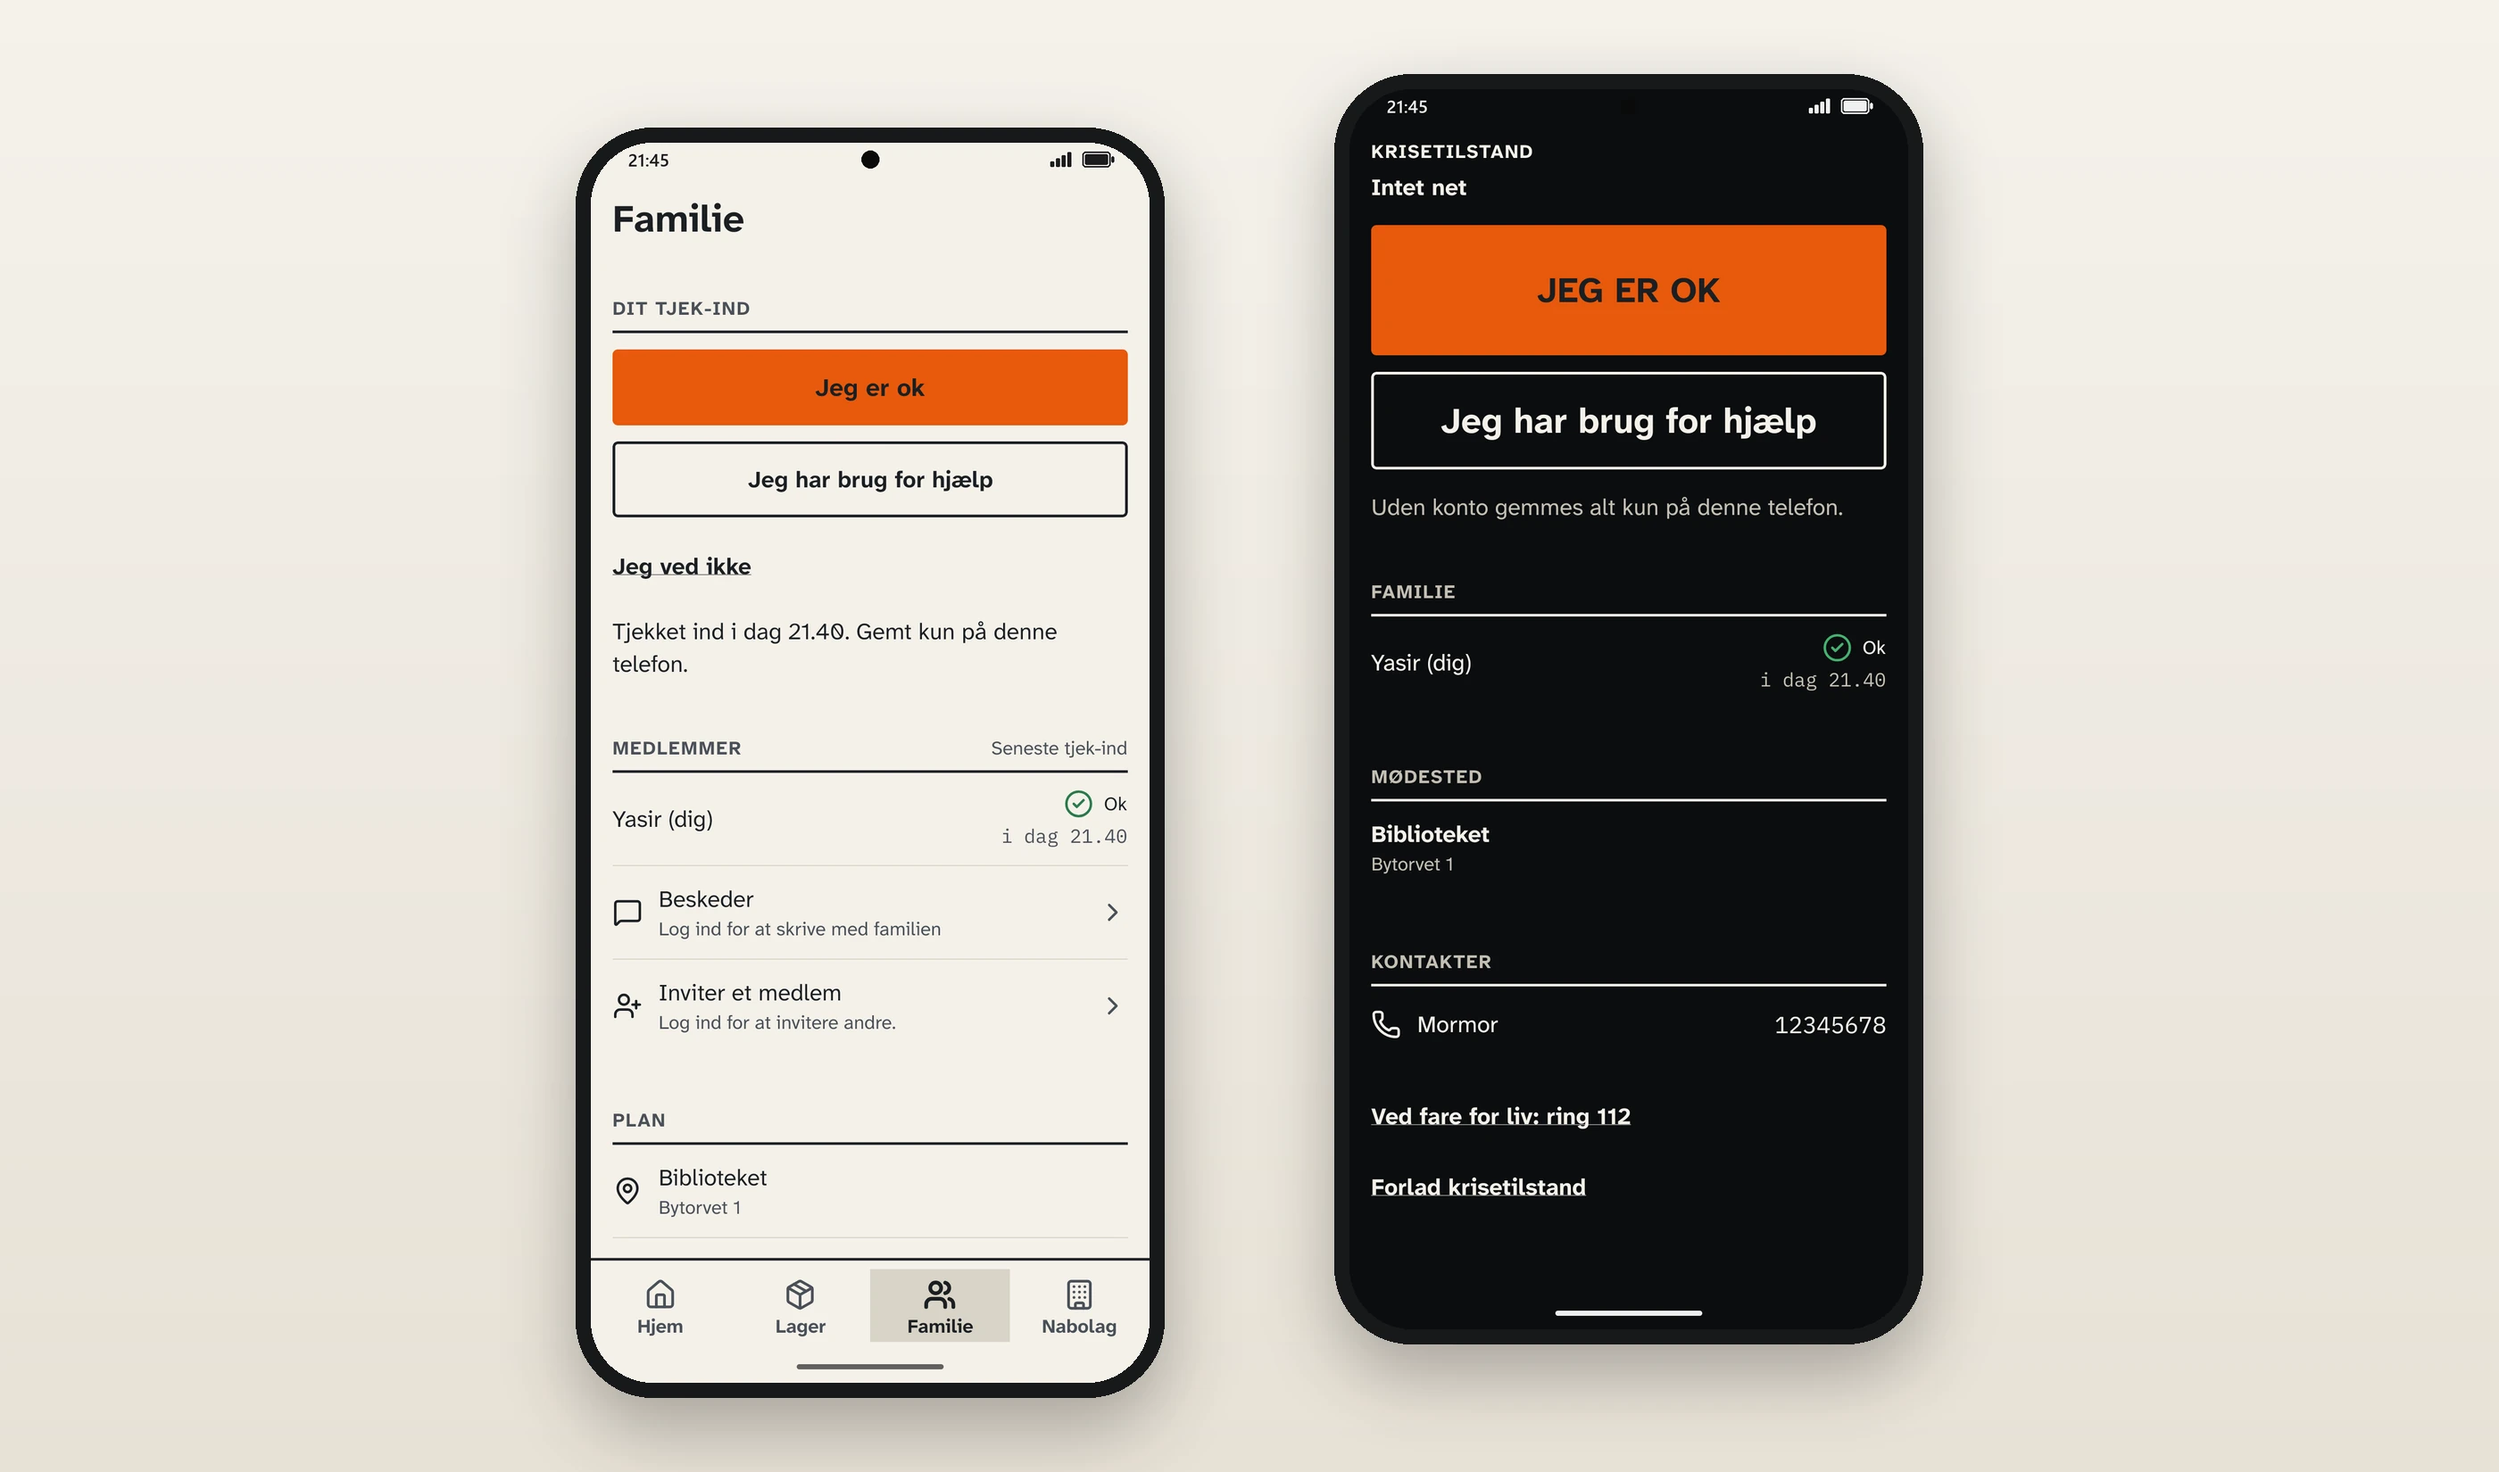
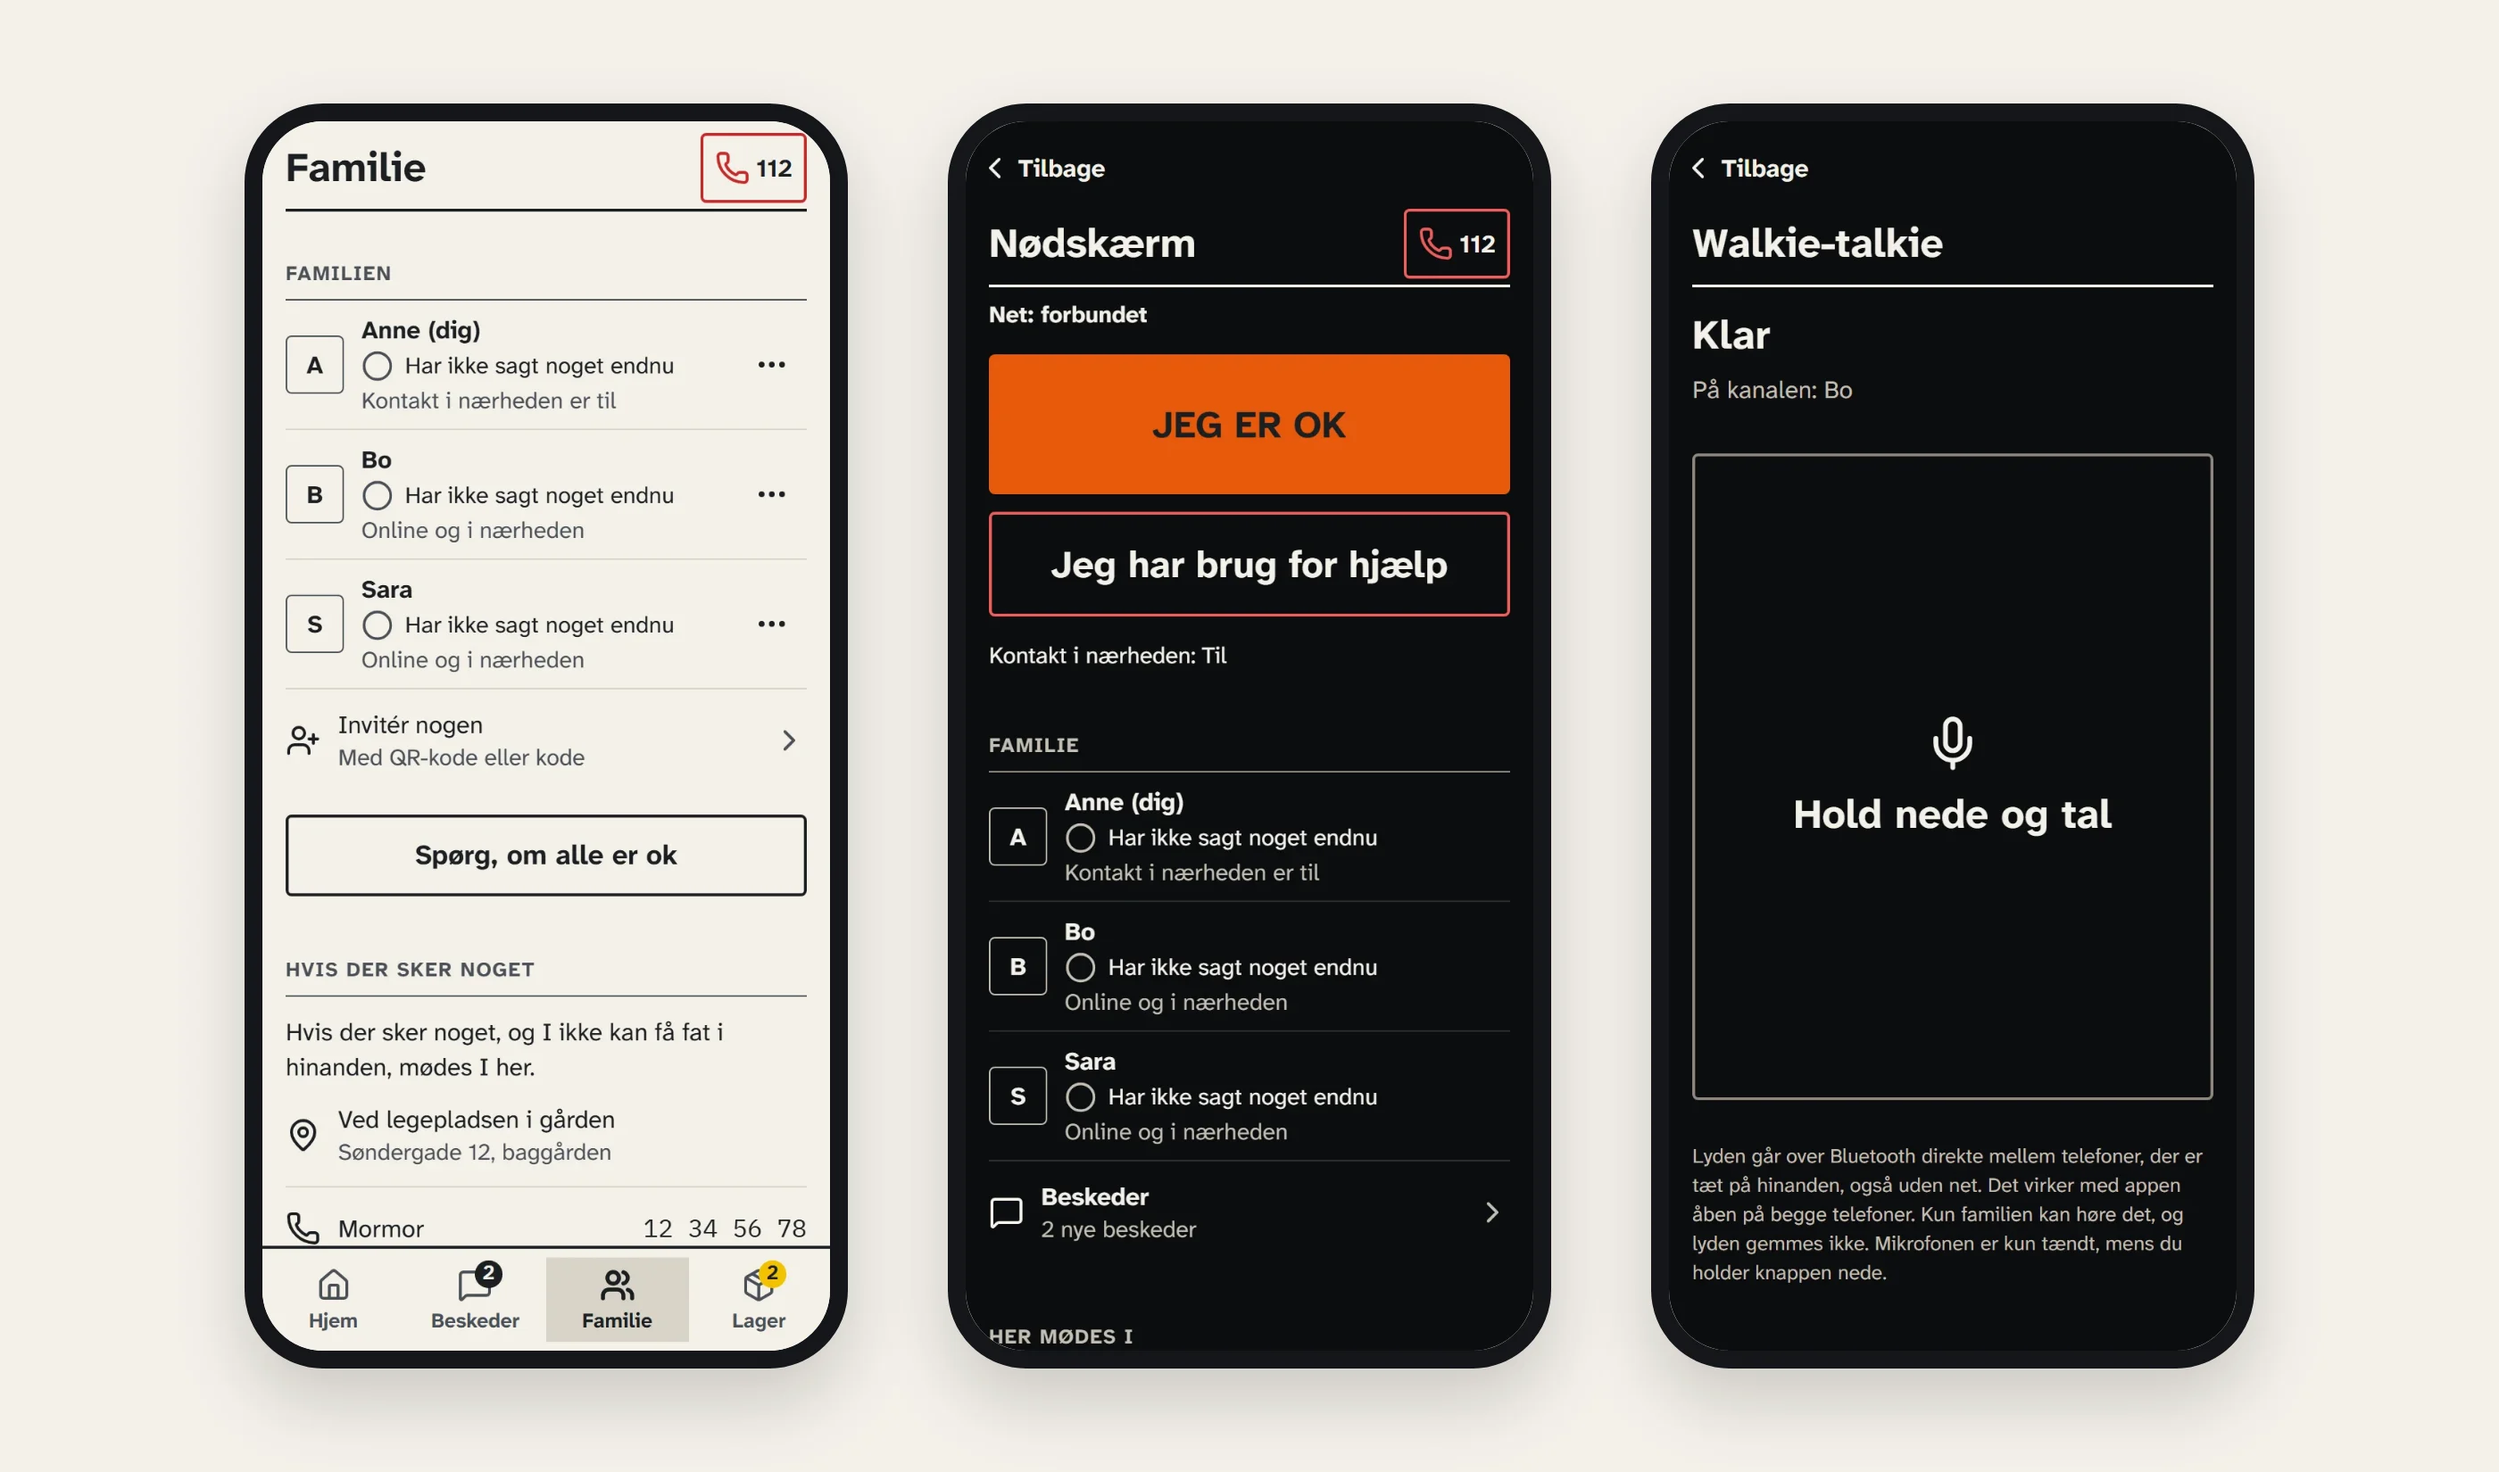
New screenshots, walkie-talkie and neighbourhoods, and no test numbers

diff --git a/README.md b/README.md
@@ -12,36 +12,38 @@
 
 ## What it is
 
-Nabolys ("the neighbours' light") is a Danish app for **Android and iPhone** that helps a household get ready for a crisis and keep in touch when the mobile network or the power is gone.
+Nabolys ("the neighbours' light") is a Danish app for **Android and iPhone** that helps a family and their neighbours get ready for a crisis and keep in touch when the mobile network or the power is gone.
 
 - **Stock** with best-before dates, and a warning before things expire.
 - **A three-day list** worked out for the people who live there (adults, children, small children and pets), based on the Danish authorities' advice.
 - **A family plan**: where to meet, who to call and who does what.
 - **"I'm ok" check-in** and family messages.
 - **Emergency screen**: a dark screen with big buttons, the plan and the latest check-ins.
+- **Walkie-talkie**: hold the button and talk to the family near you, phone to phone.
+- **Neighbourhoods** (on its way): a closed group for your building or street, where neighbours write to each other.
 
 Nabolys is a private project, not an official app, and it does not replace 112 or official warnings.
 
 ## Works without the network
 
-When the network is down, two phones close to each other can send check-ins and messages over **Bluetooth Low Energy**, also between iPhone and Android, and they are passed on to the server when there is a network again. Everything a family shares is **end-to-end encrypted**, so the server cannot read it. Data on the phone is stored in an encrypted database.
+When the network is down, phones near each other can send check-ins, messages and voice over **Bluetooth Low Energy**, also between iPhone and Android, and they are passed on to the server when there is a network again. Everything a family shares is **end-to-end encrypted**, so the server cannot read it. Data on the phone is stored in an encrypted database.
 
 ## Status
 
-The MVP is built, and it is not released yet. Every security-related part goes through a written internal security review (six so far), and the code has over 2,300 automated tests and CI. The server and the website run on Azure, and Bluetooth messages between two phones are tested on real phones, also between iPhone and Android.
+The MVP is built, and the app is on its way to the App Store and Google Play. Security-related parts get a written internal security review, and every change runs through automated tests and CI. The server and the website run on Azure.
 
 ## Screenshots
 
 <p align="center">
-  <img src="images/nabolys.webp" alt="Nabolys on Android: the home screen, the stock list and the three-day list" width="100%" />
+  <img src="images/nabolys.webp" alt="Nabolys: the home screen, the stock list and the three-day list" width="100%" />
   <br />
-  <em>Home, stock and the three-day list for a household of four (Android)</em>
+  <em>Home, stock and the three-day list</em>
 </p>
 
 <p align="center">
-  <img src="images/nabolys-krise.webp" alt="Nabolys on Android: the family check-in and the dark crisis mode" width="100%" />
+  <img src="images/nabolys-krise.webp" alt="Nabolys: the family check-in, the dark emergency screen and the walkie-talkie" width="100%" />
   <br />
-  <em>Family check-in and the dark emergency screen</em>
+  <em>Family check-in, the dark emergency screen and the walkie-talkie</em>
 </p>
 
 ## Stack
@@ -72,8 +74,6 @@ The MVP is built, and it is not released yet. Every security-related part goes t
 | **Bluetooth without the network** | Kotlin on Android, as an Expo module using Bluetooth Low Energy. Swift on iPhone, built and tested in CI. |
 | **Server** | C# with ASP.NET Core 10 and Entity Framework Core 10. SQL Server (LocalDB in development, Azure SQL in production). SignalR for real-time messages and online status. Azure Communication Services sends login codes by e-mail. |
 | **Operations and tests** | Azure (App Service, Azure SQL, Key Vault and Application Insights), set up with Bicep, and deploys that sign in through Entra ID. GitHub Actions for CI: tests, a scan for leaked secrets (gitleaks) and deploy. EAS Build builds the phone apps in the cloud. |
-
-Over **2,300 automated tests**: about 930 for the server, 730 for the app, 310 for the encryption and 350 for the Bluetooth code.
 
 ---
 
